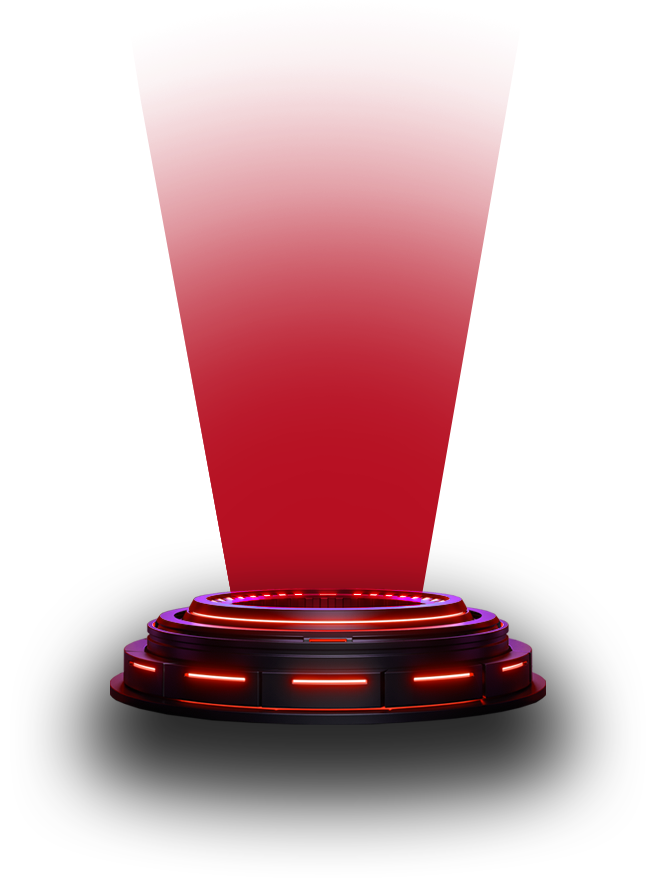
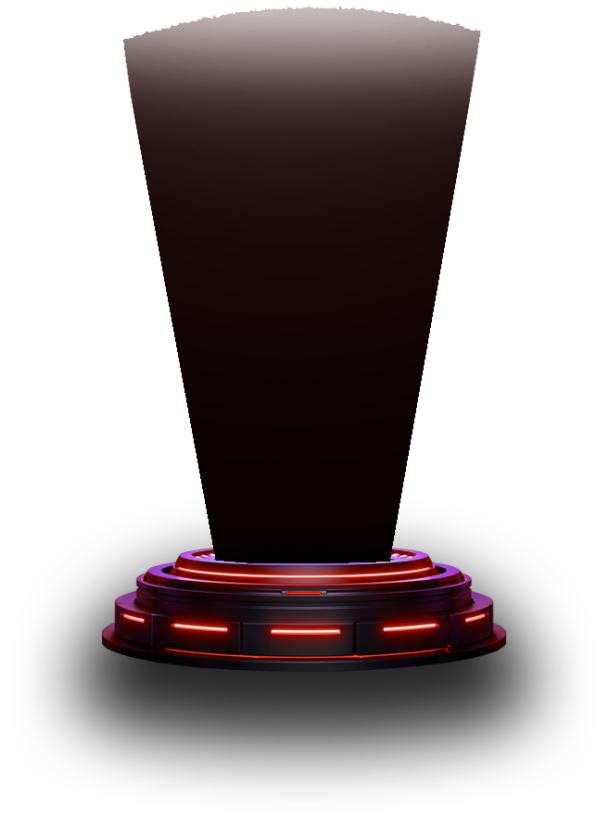
Change pool image, fix fonts

Changed region(s): [[0.1872, 0.0, 0.8112, 0.7004]]

diff --git a/dapp/src/components/PoolItem.tsx b/dapp/src/components/PoolItem.tsx
@@ -12,6 +12,7 @@ import { useNavigate } from "react-router";
 import getNftContractAddresses from "../pools/getNftContractAddresses";
 import ProgressBar from "./ProgressBar";
 import { PoolBaseInfo } from "../pools/PoolBaseInfo";
+import useScreenSize from "../hooks/useScreenSize";
 
 export type PoolItemProps = {
     className?: string;
@@ -78,9 +79,9 @@ const PoolName = styled(TextFit)`
     text-shadow: -3px 3px #72b6b6;
 `;
 
-const CoverImageContainer = styled.div`
+const CoverImageContainer = styled.div<{ isSmallScreen: boolean }>`
     position: relative;
-    max-width: 130px;
+    max-width: ${props => props.isSmallScreen ? 115 : 130}px;
 `;
 
 const CoverImage = styled.img`
@@ -118,10 +119,12 @@ const PoolItem: React.FC<PoolItemProps> = ({
     mode: rawMode
 }) => {
     const user = useUser();
+    const screenSize = useScreenSize();
     const nftContractContext = useContext(NFTContractContext);
     const poolContractContext = useContext(LevelingPoolContractContext);
     const navigate = useNavigate();
 
+    const isSmallScreen = screenSize === 'xs';
     const isConnected = !!user.account;
 
     useEffect(() => {
@@ -245,9 +248,9 @@ const PoolItem: React.FC<PoolItemProps> = ({
         <>
             <Container active={active} className={className}>
                 <Content>
-                    <PoolName className="flex items-center justify-center mb-4" height={55}>{baseInfo.name}</PoolName>
+                    <PoolName className="flex items-center justify-center my-4" height={55}>{baseInfo.name}</PoolName>
                     <div className='flex justify-center'>
-                        <CoverImageContainer>
+                        <CoverImageContainer isSmallScreen={isSmallScreen}>
                             <PositionedNetworkIcon size={30} networkId={baseInfo.networkId} />
                             <CoverImage src={baseInfo.coverImage} />
                         </CoverImageContainer>

diff --git a/dapp/src/PoolView/PoolInternal.tsx b/dapp/src/PoolView/PoolInternal.tsx
@@ -25,7 +25,7 @@ const Container = styled.div`
     border: 3px solid #5dffff;
     background-color: rgba(0,0,0,0.75);
     border-radius: .5rem;
-    box-shadow: #5dffff 1px 1px 18px 1px;
+    rgba(93,255,255,0.4) 1px 1px 15px 1px;
 `;
 
 const PoolName = styled(TextFit)`
@@ -44,14 +44,21 @@ const Content = styled.div`
 `;
 
 const LevelText = styled.div`
+    font-family: Akira;
     color: white;
-    font-size: 18px;
+    font-size: 1.1rem;
     text-transform: uppercase;
+
+    & span {
+        color: #5dffff;
+        font-size: 1.5rem;
+    }
 `;
 
 const Subtitle = styled.h2`
     font-size: 1.5rem;
     color: White;
+    font-family: Akira;
 `;
 
 const CollectionContainer = styled.div`
@@ -62,6 +69,7 @@ const CollectionContainer = styled.div`
 `;
 
 const CollectionName = styled.h3`
+    font-family: Akira;
     font-size: 1.25rem;
     color: White;
     font-weight: 600;
@@ -212,7 +220,7 @@ const PoolInternal: React.FC<PoolInternalProps> = ({
                     </div>
 
                     <Content>
-                        <LevelText>Wallet level {poolContractContext.walletLevel}</LevelText>
+                        <LevelText>Wallet level <span>{poolContractContext.walletLevel}</span></LevelText>
 
                         {renderProgressBar()}
 

diff --git a/dapp/src/components/ListPools.tsx b/dapp/src/components/ListPools.tsx
@@ -54,7 +54,6 @@ export const ListPools: React.FC<ListPoolsProps> = (props) => {
                 {allPools.map((pool, index) => (
                     <PoolItemWrapper className="mx-auto" key={index}>
                         <PoolItem className="mx-auto"
-
                             baseInfo={pool}
                             mode={props.mode}
                         />

diff --git a/dapp/src/App.tsx b/dapp/src/App.tsx
@@ -12,7 +12,7 @@ import { PoolsBaseInfoContext } from './pools/PoolsBaseInfoContext';
 import useScreenSize from './hooks/useScreenSize';
 
 const Container = styled.div`
-    max-width: 1200px;
+    max-width: 1400px;
 `;
 
 const Header = styled.h1<{ isSmallScreen: boolean }>`

diff --git a/dapp/src/components/SimpleItemPair.tsx b/dapp/src/components/SimpleItemPair.tsx
@@ -17,8 +17,8 @@ const Container = styled.div`
 `;
 
 const Value = styled.div`
-    font-weight: 600;
-    color: #d5c3e1;
+    font-family: Akira;
+    color: white;
 `;
 
 const SubValue = styled.div`
